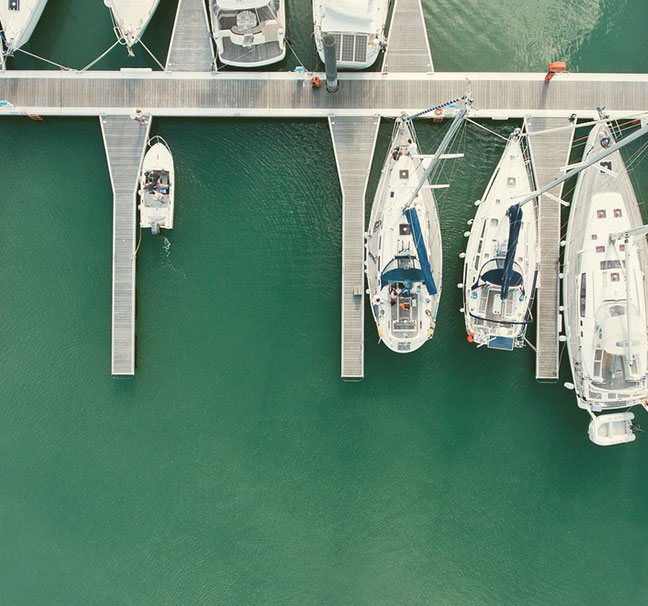
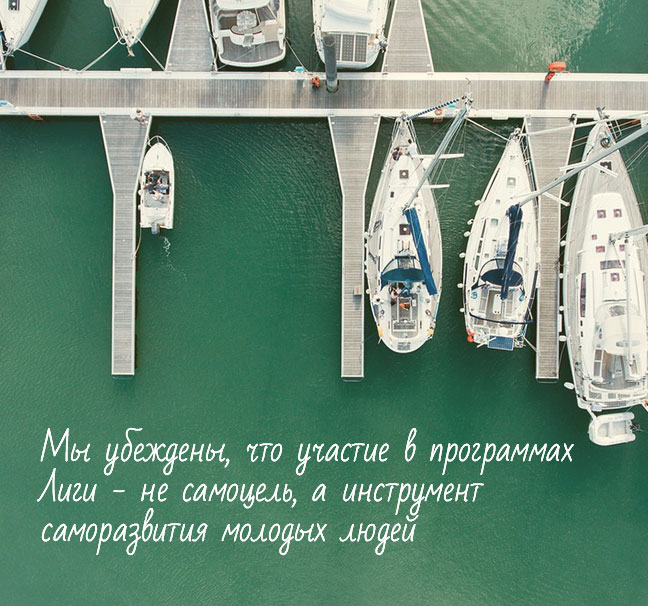
add page one_of_us

Changed region(s): [[0.0617, 0.6832, 0.8951, 0.9208]]

diff --git a/one-of-us.html b/one-of-us.html
@@ -7,7 +7,7 @@
 	<meta name="description" content="Лига добровольного труда молодежи. Интересно, нужно, важно. Открывает новые возможности, привносит позитивные изменения и разнообразие в жизни">
 	<meta name="Keywords" content="Лига труда молодежи, новые возможности, яркие события, увлекательные путешествия, знакомство с миром, новые знания, навыки, опыт, друзья, местное общество">
 	<link rel="stylesheet" type="text/css" href="css/header.css">
-	<link rel="stylesheet" type="text/css" href="css/main_about_us.css">
+	<link rel="stylesheet" type="text/css" href="css/main_one_of_us.css">
 	<link rel="stylesheet" type="text/css" href="css/footer.css">
 	<link rel="stylesheet" type="text/css" href="css/adaptive.css">
 	<link href="https://fonts.googleapis.com/css?family=PT+Sans|Ubuntu:500" rel="stylesheet">
@@ -66,7 +66,45 @@
 	<div class="conteiner">
 		<div class="main">
 			
-			<h2>Страница находиться в разработке</h2>
+			<article class="info_about one">
+				<img src="images/one_of_us_1.jpg">
+				<div>
+				<h2>  Для того, чтобы стать одним из нас, важно:</h2>
+					<ul>
+						<li>Разделять наши цели, задачи и принципы</li>
+						<li>Быть активным и инициативным</li> 
+						<li>Иметь желание приобретать и развивать важные навыки и компетенции</li>
+						<li>Быть готовым к равному партнерству</li> 
+						<li>Поддерживать полезные начинания и инициировать позитивные события</li>
+					</ul>
+				</div>
+			</article>
+			<article class="info_about two">
+				<div>
+					<h2> Что нужно от вас:</h2>
+					<ul>
+						<li>Определиться, какая программа ЛИГИ вам интересна</li>
+						<li>Проконсультироваться с координатором выбранной программы</li>
+						<li>Ознакомиться с Уставом ЛИГИ</li>
+						<li><a href='https://drive.google.com/file/d/0B25vdylWBrCDMXNMVkM4T1R5Yjg/view' target="_blank">Написать заявление</a> на вступление в члены ЛИГИ</li>
+						<li><a href='https://drive.google.com/file/d/0B25vdylWBrCDUzVYc25udTMwSE0/view' target="_blank">Оплатить членский взнос</a></li>  
+					</ul>
+				</div>
+				<img src="images/one_of_us_2.jpg">
+			</article>
+			<article class="info_about three">
+				<img src="images/one_of_us_3.jpg">
+				<div>
+					<h2> Какие возможности есть у членов Лиги:</h2>
+					<ul>
+						<li>Участвовать во всех программах, проектах, мероприятиях и событиях, проходящих в ЛИГЕ</li>
+						<li>Вносить на рассмотрение свои предложения и инициативы</li>
+						<li>Избирать и быть избранными в выборные органы организации</li>
+						<li>Свободно выйти из членов ЛИГИ</li>
+
+					</ul>
+				</div>
+			</article>
 			
 		</div>
 	</div>	

diff --git a/css/main_one_of_us.css b/css/main_one_of_us.css
@@ -16,29 +16,27 @@ h1{
 	font-weight: 400;
 }
 
-h2{
+.info_about h2{
 	font-family: 'PT Sans', 'Courier New', 'Arial', sans-serif;
-	font-size: 34px;
-	margin:0 0 20px 0;
+	font-size: 36px;
+	margin: 0 0 30px 0;
+	line-height: 0.95;
 }
 
-h3{
-	margin-top:30px;
+article ul{
+	margin-left: 20px;
 }
-
 
 .info_about{
 	clear:both;
 	width:100%;
 	text-align: justify;
-	text-indent:25px;
 }
 
 .info_about>div{
 	width:48%;
 	float:left;
-	margin:30px 0;
-
+	margin: 55px 0;
 }
 
 .info_about>img{

diff --git a/we.html b/we.html
@@ -100,10 +100,6 @@
 						и профессионального роста молодых людей. </p>
 				</div>
 				<img src="images/about_us_2.jpg">
-				<p class='image_text'>Мы убеждены, что участие в программах <br/>
-					Лиги — не самоцель, а инструмент <br/>
-					саморазвития молодых людей</p>
-
 			</article>
 			<article class="info_about three">
 				<img src="images/about_us_3.jpg">

diff --git a/css/main_index.css b/css/main_index.css
@@ -19,7 +19,7 @@
 }
 
 .slogon p{
-	margin-top: 65%;
+	margin-top: 496px;
     margin-left: 30px;
     color: #fff;
 }
@@ -165,7 +165,7 @@ section>h2>span{
 
 .program:hover .program_name p{
 	font-size: 36px;
-	padding:0px 15px 15px 15px
+	padding:0px 20px 20px 20px
 }
 
 .program_name a{

diff --git a/css/adaptive.css b/css/adaptive.css
@@ -30,6 +30,21 @@ footer .social {
     font-size: 32px;
   }
 
+.info_about.one > div{
+  margin:30px 0;
+}
+
+
+
+
+.info_about h2{
+  font-size: 34px;
+  margin:0 0 20px 0;
+  line-height: 0.95;
+}
+
+
+
 }
 
   @media only screen and (max-width:1024px){
